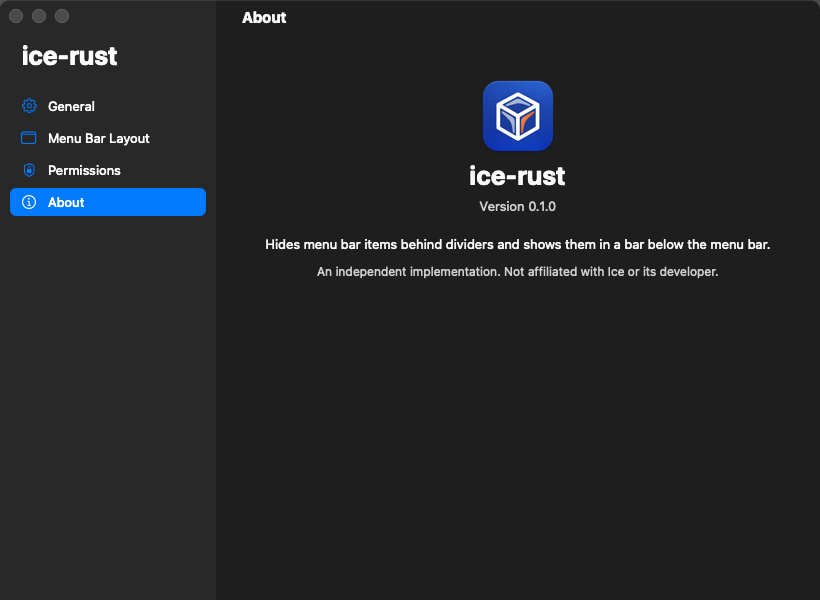
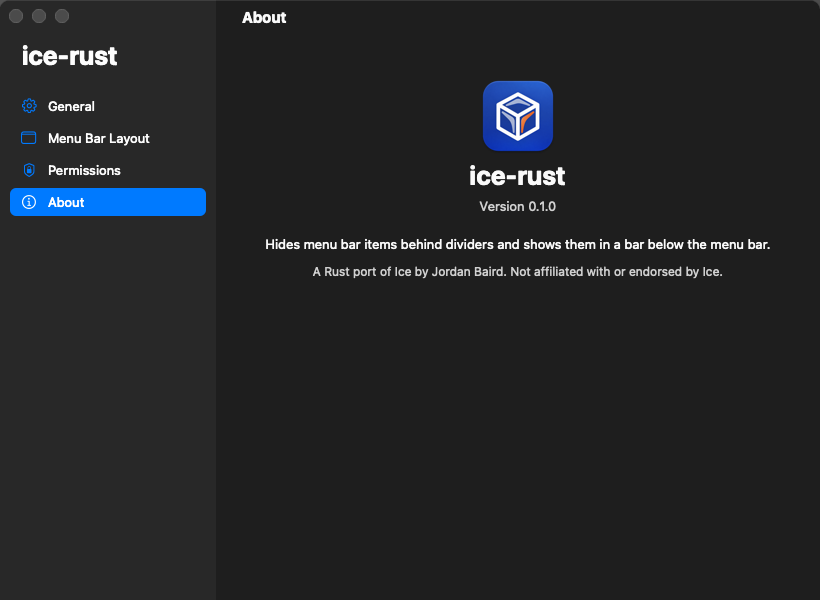
Describe ice-rust as a Rust port of Ice
ice-rust reproduces Ice's features, UI design and text, settings keys
and macOS mechanisms; only the code is new. Reword the README, About
page, Cargo.toml and docs accordingly, and add a NOTICE with Ice's
copyright and the change statement GPL-3.0 section 5 requires.

Claude-Session: https://claude.ai/code/session_018Ja93ZycVQTdjWCRbRSAuz

Changed region(s): [[0.3659, 0.42, 0.8841, 0.48]]

diff --git a/src/platform/settings_window.rs b/src/platform/settings_window.rs
@@ -1143,7 +1143,7 @@ fn build_about(mtm: MainThreadMarker, page: &NSView, content_width: f64) {
         &NSColor::labelColor(),
     );
     centered(
-        "An independent implementation. Not affiliated with Ice or its developer.",
+        "A Rust port of Ice by Jordan Baird. Not affiliated with or endorsed by Ice.",
         220.0,
         18.0,
         12.0,

diff --git a/README.md b/README.md
@@ -8,16 +8,28 @@ ice-rust is a menu bar manager for macOS, written in Rust. It hides menu bar
 items behind dividers and shows them on demand, in the menu bar itself or in
 a panel below it.
 
-## Inspired by Ice
+## A Rust port of Ice
 
-ice-rust is an independent Rust implementation inspired by
-[Ice](https://github.com/jordanbaird/Ice), the menu bar manager by Jordan
-Baird, licensed under GPL-3.0. Ice's behavior and the macOS mechanisms it
-relies on were studied from Ice's source and from the installed Ice binary,
-as recorded in [docs/ice-internals-evidence.md](docs/ice-internals-evidence.md).
-No Ice code was copied or translated. ice-rust is not affiliated with Ice or
-its developer. Ice is the mature, full-featured app; ice-rust covers a subset
-of it (see [Differences from Ice](#differences-from-ice)).
+ice-rust is a Rust port of [Ice](https://github.com/jordanbaird/Ice), the
+menu bar manager by Jordan Baird (Copyright (C) 2023-2025 Jordan Baird,
+GPL-3.0). It is a derivative of Ice and is distributed under the same license.
+
+What comes from Ice:
+
+- The features and how they behave: the divider, the Always-Hidden section,
+  the Ice Bar, auto-rehide and the drag-and-drop Menu Bar Layout.
+- The UI design and its text, including the Menu Bar Layout page, its section
+  names and its tip, and the name "Ice Bar".
+- The macOS mechanisms, constants and settings keys (`UseIceBar`,
+  `AutoRehide`, `RehideInterval`), worked out from Ice's source code and the
+  installed Ice app, as recorded in
+  [docs/ice-internals-evidence.md](docs/ice-internals-evidence.md).
+
+What is new: the code. ice-rust is written in Rust against AppKit through the
+objc2 crates, rebuilt from that analysis rather than translated line by line
+from Ice's Swift. It is not affiliated with or endorsed by Ice or its
+developer. Ice is the mature, full-featured app; ice-rust covers a subset of
+it (see [Differences from Ice](#differences-from-ice)).
 
 ## Features
 
@@ -345,14 +357,15 @@ python3 scripts/make-icons.py assets/logo-source.png assets
 
 ## License
 
-ice-rust is licensed under the GNU General Public License v3.0 only
-(GPL-3.0-only). See [LICENSE](LICENSE).
+ice-rust is a derivative of Ice, Copyright (C) 2023-2025 Jordan Baird, and is
+licensed under the GNU General Public License v3.0 only (GPL-3.0-only), the
+license Ice uses. See [LICENSE](LICENSE) and [NOTICE](NOTICE).
 
 ## Acknowledgements
 
 - [Ice](https://github.com/jordanbaird/Ice) by Jordan Baird, licensed under
-  GPL-3.0. ice-rust follows its behavior, and the evidence ledger documents
-  how it works.
+  GPL-3.0. ice-rust is a port of it, and the evidence ledger documents how it
+  works.
 - The [objc2](https://github.com/madsmtm/objc2) crates (`objc2`,
   `objc2-foundation`, `objc2-app-kit`, `objc2-core-foundation`,
   `objc2-core-graphics`, `block2`), which provide the Rust bindings to AppKit,

diff --git a/docs/design.md b/docs/design.md
@@ -1,15 +1,18 @@
 # ice-rust design
 
-ice-rust is an independent Rust implementation of two Ice behaviors on macOS:
+ice-rust is a Rust port of Ice. This contract started with two Ice behaviors on macOS:
 hiding menu bar items behind a divider, and the Ice Bar panel that shows the
 hidden items under the menu bar. Mechanism facts come from the evidence ledger
 ([ice-internals-evidence.md](ice-internals-evidence.md)), which cites Ice
 0.11.13-dev.2 source, the installed binary, and passive runtime probes on
 macOS 26.3.
 
-Ice is GPL-3.0. This project reuses facts about how macOS behaves (API names,
-constants, window-server behavior). It does not translate Ice source. Do not
-copy Swift code or comments from Ice into this repository.
+Ice is GPL-3.0, and so is ice-rust, a derivative of it: its features, UI
+design and text, settings keys and mechanisms come from Ice. The rule used
+while writing the code: work from facts about how Ice and macOS behave (API
+names, constants, window-server behavior, the UI and its text) and write the
+Rust code from those facts; do not translate Ice's Swift line by line or copy
+its code comments.
 
 ## Scope (v1)
 
@@ -301,8 +304,8 @@ always-hidden divider sits left of the hidden divider, expands to the same
   - Permissions: Screen Recording and Accessibility status with a button that
     requests the permission or opens the matching System Settings pane;
     refresh every second while the page is visible.
-  - About: version, one line on what it does, and the note that it is an
-    independent implementation not affiliated with Ice.
+  - About: version, one line on what it does, and the note that it is a Rust
+    port of Ice, not affiliated with or endorsed by Ice.
 - No Hotkeys, Appearance, or Updates pages; those features do not exist.
 
 ### Menu Bar Layout pane

diff --git a/docs/technical.md b/docs/technical.md
@@ -6,12 +6,12 @@ behavior it works around. The design contract and the findings of each test
 run are in [design.md](design.md). The facts about Ice and macOS that the
 design relies on are in [ice-internals-evidence.md](ice-internals-evidence.md).
 
-ice-rust is an independent implementation. It contains no Ice source code
-and no code translated from Ice. Ice is GPL-3.0; this project uses facts
-about how macOS behaves (API names, constants, observed window server
-behavior) gathered from Ice's source, the installed Ice binary and runtime
-observation, plus Apple documentation and the documentation and sources of
-the Rust crates it depends on.
+ice-rust is a Rust port of Ice and a derivative of it under GPL-3.0. Its
+features, UI text, settings keys and macOS mechanisms come from Ice, gathered
+from Ice's source, the installed Ice binary and runtime observation (see the
+README's "A Rust port of Ice"). The Rust code was written from that analysis,
+plus Apple documentation and the documentation and sources of the Rust crates
+it depends on, rather than translated line by line from Ice's Swift.
 
 "The development host" below is the machine ice-rust was built and tested
 on: macOS 26.3 on Apple Silicon, with four displays.
@@ -193,8 +193,8 @@ bars stretch.
   Recording grant applies after ice-rust relaunches, as the page says. The
   first click on Grant Access asks for the permission; later clicks open the
   matching System Settings pane.
-- About: version, what the app does, and the note that it is an
-  independent implementation not affiliated with Ice.
+- About: version, what the app does, and the note that it is a Rust port of
+  Ice, not affiliated with or endorsed by Ice.
 
 ## Moving items
 
